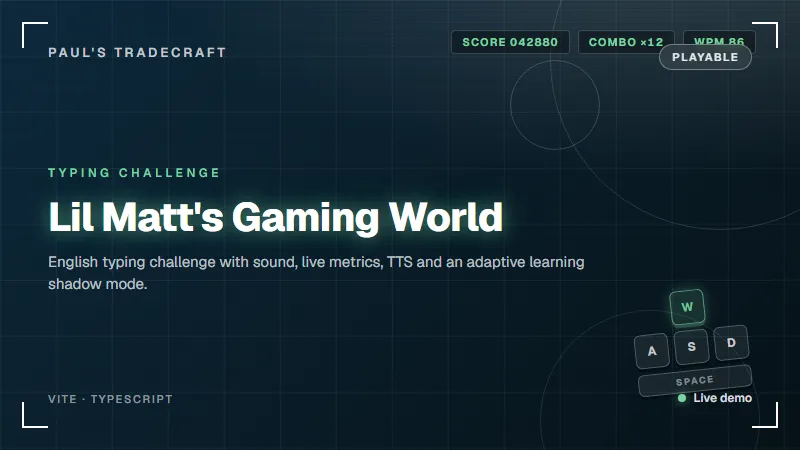
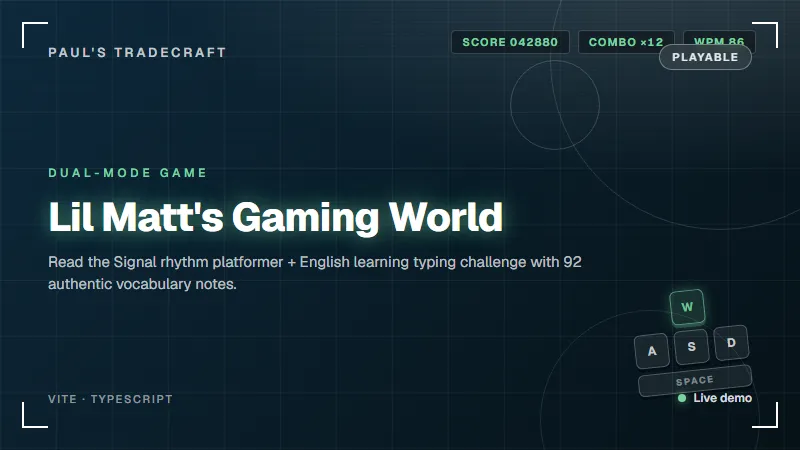
content: present Lil Matt's Gaming World as dual-mode game (Read the Signal platformer + English learning typing)

Changed region(s): [[0.0625, 0.56, 0.75, 0.6533], [0.0625, 0.3733, 0.2812, 0.4044]]

diff --git a/src/data/works.js b/src/data/works.js
@@ -135,38 +135,38 @@ export const works = [
   {
     id: "game",
     cover: "/images/cover-game.webp",
-    imageAlt: "小麥遊戲世界打字挑戰",
+    imageAlt: "Lil Matt's Gaming World 遊戲",
     span: "col-span-1",
     verified: true,
     link: "https://apchen1978.github.io/signal-rift-typing-demo/",
-    linkLabel: "Play the demo",
+    linkLabel: "Play the game",
     zh: {
-      title: "小麥遊戲世界 · 打字挑戰",
-      desc: "SIGNAL//RIFT 內建英文打字挑戰：七大功能 + Adaptive Learning Shadow Mode，可即時遊玩。",
-      tag: "遊戲 · 學習",
+      title: "Lil Matt's Gaming World",
+      desc: "雙模式原創遊戲：「Read the Signal」精準節奏平台遊戲 + 內建英語學習打字挑戰（32 篇文章、92 筆道地美式英語字彙）。",
+      tag: "遊戲 · 英語學習",
     },
     en: {
       title: "Lil Matt's Gaming World",
-      desc: "English typing challenge inside SIGNAL//RIFT: seven features plus an Adaptive Learning Shadow Mode, playable live.",
-      tag: "Game · Learning",
+      desc: "A dual-mode original game: the Read the Signal precision rhythm platformer, plus a built-in English learning typing challenge with 32 passages and 92 authentic American English vocabulary notes.",
+      tag: "Game · English Learning",
     },
     case: {
       stage: "Shadow Pilot",
       problem: {
-        zh: "打字練習缺乏即時回饋與個人化學習機制，且中文輸入法環境導致輸入錯誤。",
-        en: "Typing practice lacked real-time feedback and personalization, and the Chinese IME environment caused input errors.",
+        zh: "打字練習缺乏即時回饋與個人化學習，且中文輸入法環境導致輸入錯誤；同時需要一個有吸引力的遊戲化載體。",
+        en: "Typing practice lacked real-time feedback and personalization, the Chinese IME environment caused input errors, and the whole experience needed a compelling gamified shell.",
       },
       approach: {
-        zh: "落地七大功能：音效、Live 指標、TTS 發音、IME 全紅 bug 根治、小知識卡、流暢度修復、Adaptive Learning Shadow Mode。",
-        en: "Shipped seven features: sound, live metrics, TTS, IME red-text fix, fun facts, smoothness, and an Adaptive Learning Shadow Mode.",
+        zh: "以「Read the Signal」精準節奏平台遊戲為主體（6 種移動模式、11 關原型、Level Editor），內建英語打字挑戰：32 篇分級文章 + 92 筆道地美式英語字彙（定義/中文/例句）、TTS 發音、DID YOU KNOW 知識卡、IME 全紅 bug 根治、Adaptive Learning Shadow Mode。",
+        en: "Built the Read the Signal precision rhythm platformer as the core (6 movement modes, 11 level prototypes, level editor), with a built-in English typing challenge: 32 graded passages, 92 authentic American English vocabulary notes (definition/translation/example), TTS pronunciation, DID YOU KNOW cards, IME red-text fixes, and an Adaptive Learning Shadow Mode.",
       },
       tools: {
         zh: "Vite + TypeScript + Canvas 2D · WebAudio · speechSynthesis（零後端、零依賴）",
         en: "Vite + TypeScript + Canvas 2D · WebAudio · speechSynthesis (no backend, zero runtime deps)",
       },
       result: {
-        zh: "Shadow Mode 確定性驗證通過（seeded data → 穩定弱點排名）；headless Chrome 四路輸入測試通過。屬技術驗證/Shadow Pilot，無真實使用者數據（UNKNOWN）。",
-        en: "Shadow Mode determinism verified on seeded data; four input paths tested in headless Chrome. Technical validation / shadow pilot; no real usage data (UNKNOWN).",
+        zh: "雙模式皆完成；Shadow Mode 確定性驗證通過；headless Chrome 四路輸入測試通過。屬技術驗證/Shadow Pilot，無真實使用者數據（UNKNOWN）。",
+        en: "Both modes complete; Shadow Mode determinism verified; four input paths tested in headless Chrome. Technical validation / shadow pilot; no real usage data (UNKNOWN).",
       },
       evidence: {
         zh: "公開 demo：https://apchen1978.github.io/signal-rift-typing-demo/",
